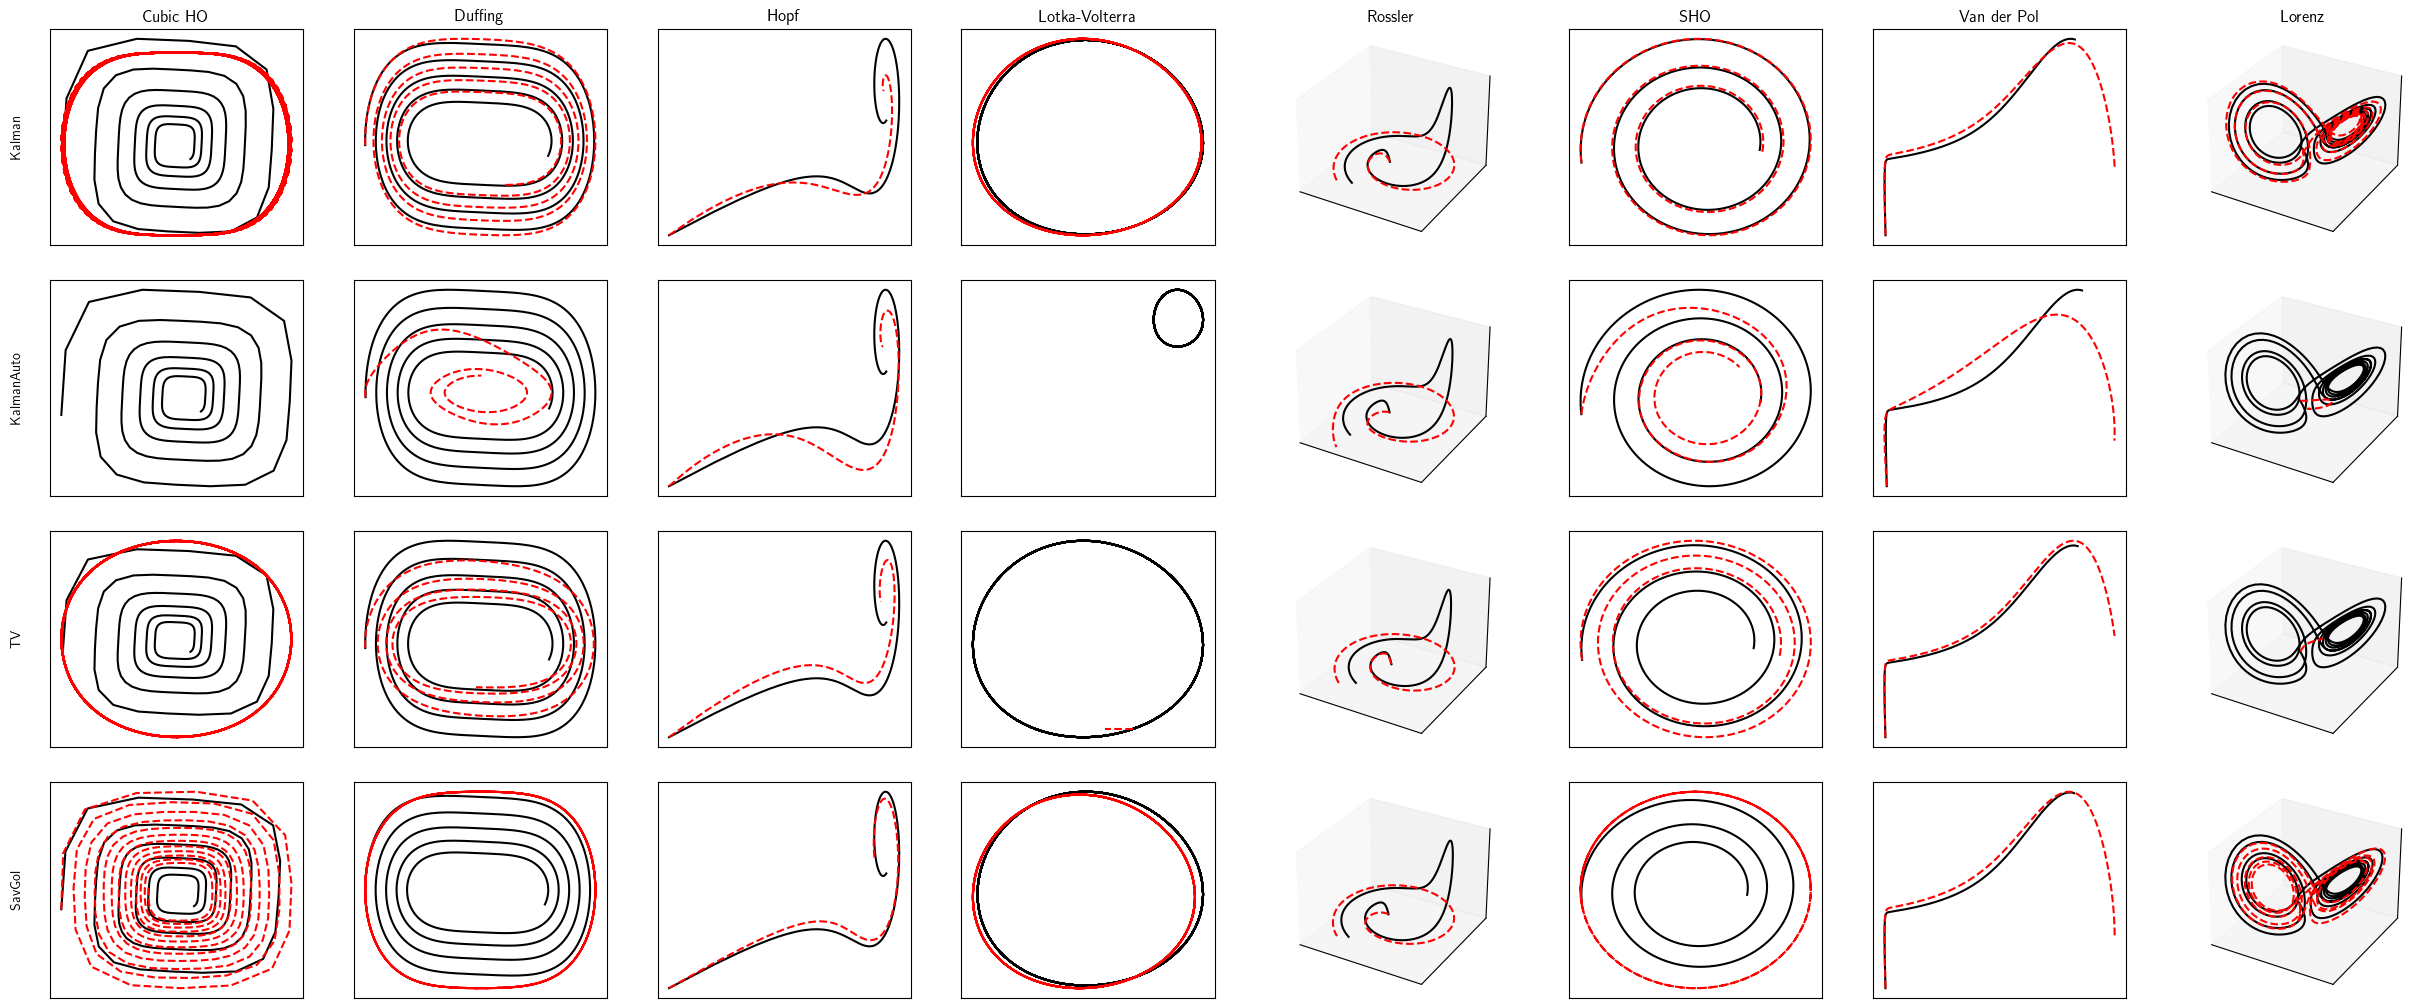
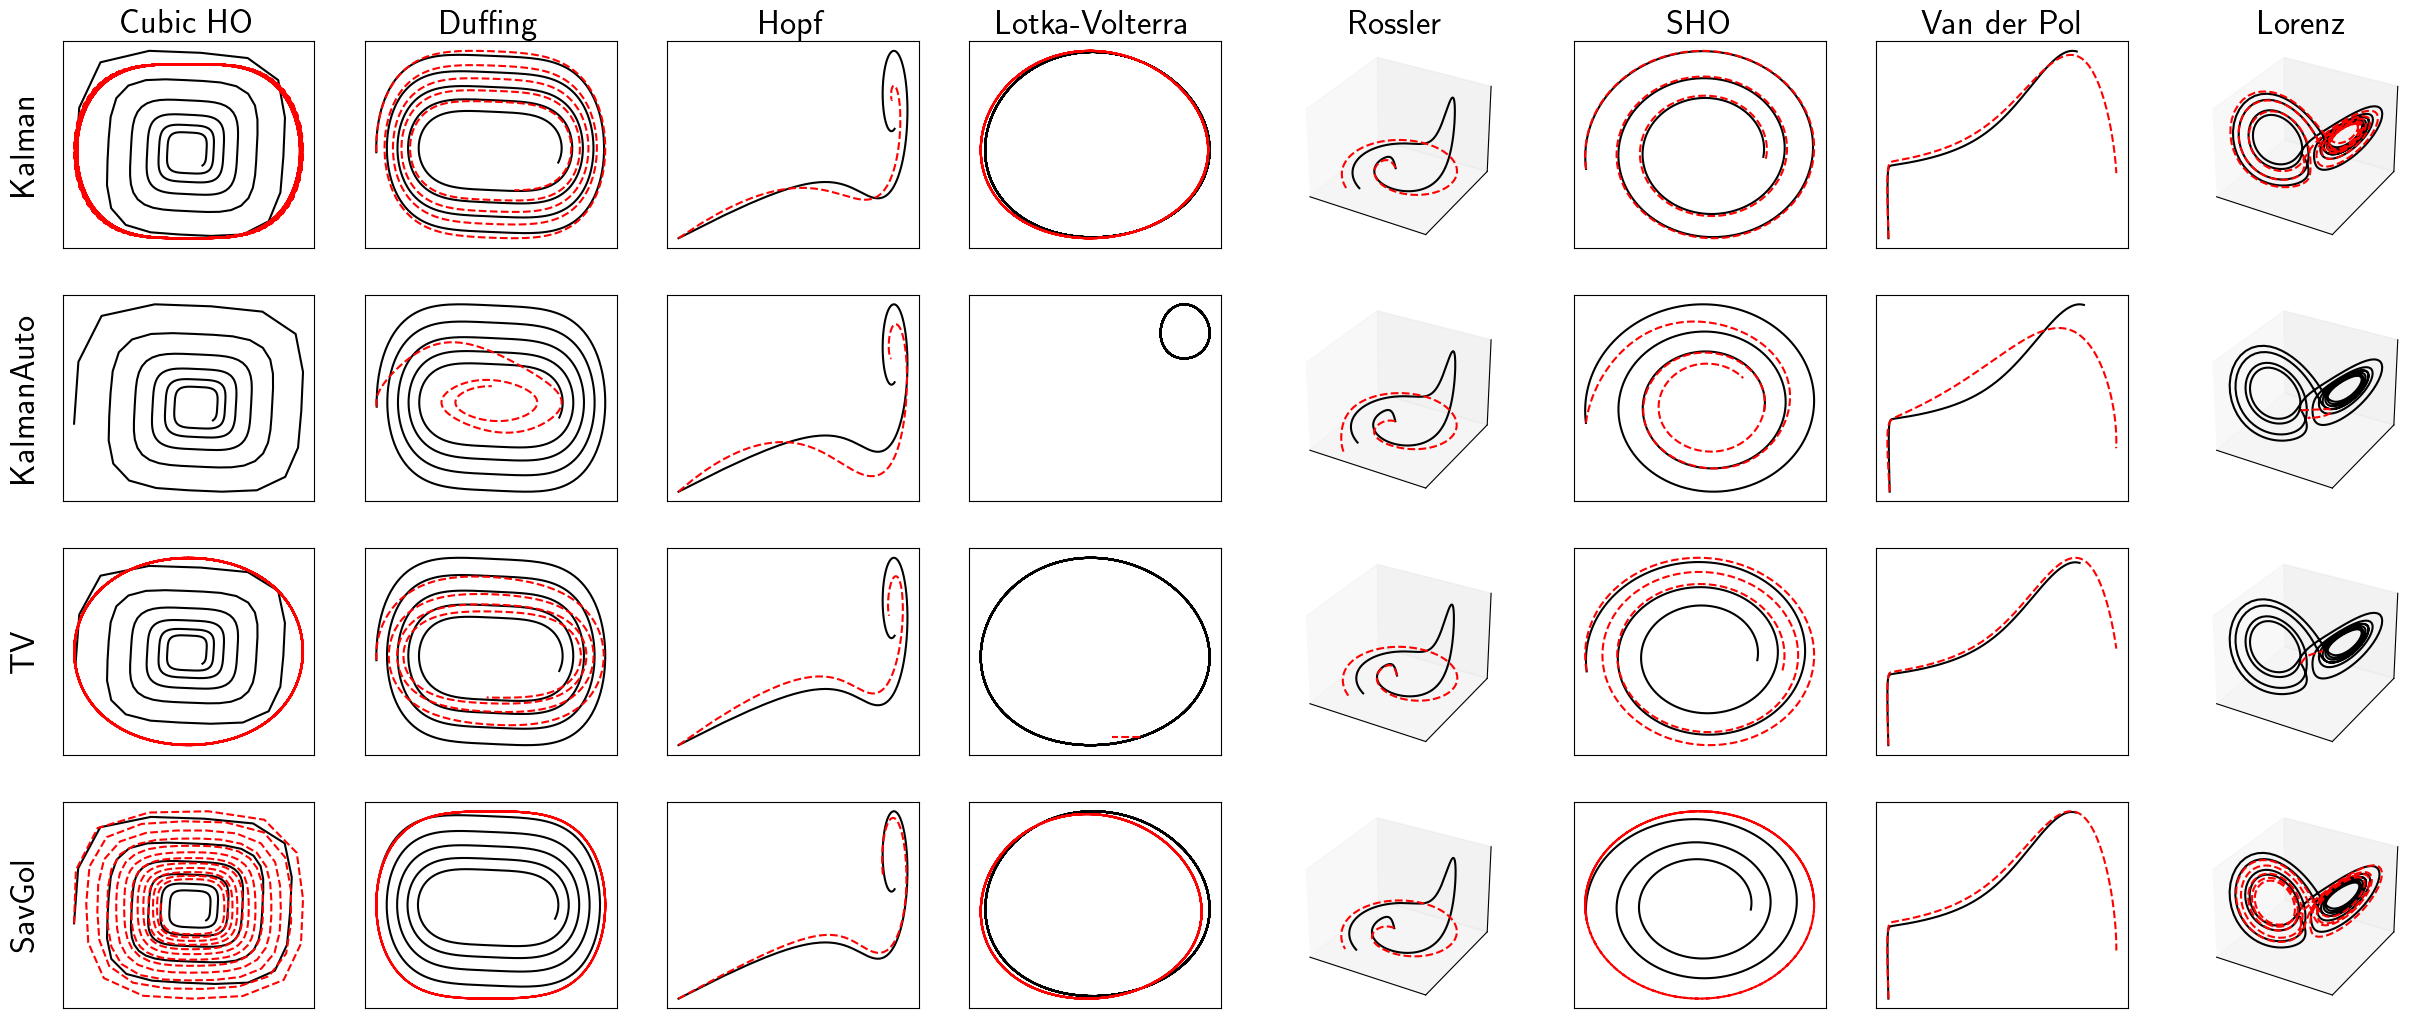
edit (images): rearrange and change fontsize in images

diff --git a/main.tex b/main.tex
@@ -1,5 +1,7 @@
 \documentclass{article}
-\usepackage[letterpaper]{geometry}
+\usepackage[
+    top=1in, bottom=1in, left=1in, right=1in
+]{geometry}
 \usepackage[utf8]{inputenc}
 \usepackage{amsmath}
 \usepackage{amssymb}
@@ -47,13 +49,6 @@ On the other hand, Kalman theory has a half-century history of assimilating nois
 Its noise properties have been well studied.
 The paper integrates mature, well-established Kalman theory with emerging SINDy technology and generalized cross validation parameter selection.
 It finds that the combination is competitive with other combinations of data smoothing and system identification, and has an advantage in preservation of problem structure and ease of parameter selection.
-
-% \begin{itemize}
-%     \item Model discovery in data science - bring power of kalman here (what about other methods: autoencoders, DMD, Koopman) (what for?) (All of physics specifying relationships among derivatives) (your job is to discovery derivatives, because derivatives give you the models. There's a lot more we can say, study, and understand about a system when we can identify relationships between derivatives.
-%     \item SINDy - overview (2016 + )
-%     \item Kalman overview (citing textbooks: Kalman is (a) Euler update, (b) Filter update with normal random variable, (c) MLE of Brownian motion, (d) best linear fit) engineering practice and design have used it for control, data assimilation is used as a workhorse tool in the real world e.g. weather.  Plus Auto KS  Include words from https://www.sciencedirect.com/science/article/pii/S0003267000838398 about comparison between SG and Kalman.  Include words from https://en.wikipedia.org/wiki/Local\_regression about comparison between SG and LOES.
-%     \item What we do: marriage of kalman + SINDy (figure, hinted at in P1)
-% \end{itemize}
 
 Model discovery methods are emerging as a critical component in data-driven engineering design and scientific discovery.
 Enabled by advancements in computational power, optimization schemes, and machine learning algorithms, such techniques are revolutionizing what can be achieved from sensor measurements deployed in a given system.
@@ -186,22 +181,19 @@ In a desire to make the experiments not just reproducible, but also customizable
 
 Within \gray{pysindy}, we redefined ensembling in a more flexible way to apply to a greater variety of underlying optimizers, such as the MIOSR one used in these experiments.  The standardization of interfaces allows us to compose SINDy experiments in the \cite{pysindy-experiments-2024} package.  It allows a standard API to specify data generation, model building, and evaluation.  Beyond the experiments in this paper, we've added PDE experiments as well.  As a consequence, we were not able to compare with the integral-based methods of \cite{messenger2021bweak}, whose equivalent in \gray{pysindy} does not allow simulation, or \cite{Hirsh2022}, which has not been built into \gray{pysindy}.
 
-Finally, in order to make it easier to collaborate and reproduce experiments, we expanded the \gray{mitosis} package developed in \cite{Stevens-Haas2022}.  This allows specifying experiment parameters and groups in a declarative manner, which leads to more readable diffs.  It also pins reproducibility information for any experiment run.  The command line syntax for the experiments in this paper, as well as the full environment git hashes and package versions, are in Appendix B
-
-\subsection{Results}
-
-We find that SINDy with Kalman smoothing recovers the problem structure in application much better than competing methods.  SINDy with Kalman hyperparameter optimization tends outperform the Savitsky-Golay and Total Variation gridsearched optima, itself outperformed only slightly by the Kalman gridsearched optima.  While hyperparameter optimization imposes a substantial runtime cost, it does not require access to the true data, making those results all the more inspiring for field use cases.  Simulations of discovered models across all ODEs and methods are shown in figure \ref{fig:test}
+Finally, in order to make it easier to collaborate and reproduce experiments, we expanded the \gray{mitosis} package developed in \cite{Stevens-Haas2022}.  This allows specifying experiment parameters and groups in a declarative manner, which leads to more readable diffs.  It also pins reproducibility information for any experiment run.  Further reproducibility info is in Appendix B
 \begin{figure}[h]
     \label{fig:test}
     \includegraphics[width=\textwidth]{images/summary_test}
     \caption{The simulation of discovered models compared to test data.  Kalman only performs worse on Cubic HO and Lotka Volterra.  It represents the essential behavior of other ODEs better than TV and Savitsky-Golay.}
 \end{figure}
 
+\subsection{Results}
+
+We find that SINDy with Kalman smoothing recovers the problem structure in application much better than competing methods.  SINDy with Kalman hyperparameter optimization tends outperform the Savitsky-Golay and Total Variation gridsearched optima, itself outperformed only slightly by the Kalman gridsearched optima.  While hyperparameter optimization imposes a substantial runtime cost, it does not require access to the true data, making those results all the more inspiring for field use cases.  Simulations of discovered models across all ODEs and methods are shown in figure \ref{fig:test}
+
 Surprisingly, while models derived from Kalman-smoothed data outperform other methods in simulation, the Kalman-smoothed training data itself does not seem as accurate as data smoothed by L-1 Total Variation or Savitsky-Golay.
 
-\begin{figure}
-    \includegraphics[width=\textwidth]{images/summary_train}
-\end{figure}
 \begin{figure}
     \label{fig:train}
     \includegraphics[width=\textwidth]{images/summary_train}
@@ -212,14 +204,16 @@ Even more surprisingly, despite performing well in simulation, SINDy with Kalman
 
 \begin{figure}
     \label{fig:time}
-    \includegraphics[width=\textwidth]{images/summary_f1_time.png}
-    \includegraphics[width=\textwidth]{images/summary_mae_time.png}
+    \centering
+    \includegraphics[width=.65\textwidth]{images/summary_f1_time.png}\\
+    \includegraphics[width=.65\textwidth]{images/summary_mae_time.png}
     \caption{How well different smoothing methods in SINDy recover the ODE coefficients as data duration increases}
 \end{figure}
 \begin{figure}
     \label{fig:noise}
-    \includegraphics[width=\textwidth]{images/summary_f1_noise.png}
-    \includegraphics[width=\textwidth]{images/summary_mae_noise.png}
+    \centering
+    \includegraphics[width=.65\textwidth]{images/summary_f1_noise.png}\\
+    \includegraphics[width=.65\textwidth]{images/summary_mae_noise.png}
     \caption{How well different smoothing methods in SINDy recover the ODE coefficients as noise increases}
 \end{figure}
 

diff --git a/images/gen_image/composite_plots.py b/images/gen_image/composite_plots.py
@@ -18,7 +18,7 @@ plots.plot_summary_metric(
     "coeff_mae",
     "sim_params.t_end",
     *exp_hexes.items(),
-    shape=(2, 4),
+    shape=(3, 3),
     title=False,
     metric_fname=r"$\xi$ MAE",
     grid_axis_fname="data duration",
@@ -29,7 +29,7 @@ plots.plot_summary_metric(
     "coeff_f1",
     "sim_params.t_end",
     *exp_hexes.items(),
-    shape=(2, 4),
+    shape=(3, 3),
     title=False,
     metric_fname=r"$\xi$ F1 score",
     grid_axis_fname="data duration",
@@ -40,7 +40,7 @@ plots.plot_summary_metric(
     "coeff_mae",
     "sim_params.noise_rel",
     *exp_hexes.items(),
-    shape=(2, 4),
+    shape=(3, 3),
     title=False,
     metric_fname=r"$\xi$ MAE",
     grid_axis_fname="relative noise",
@@ -51,7 +51,7 @@ plots.plot_summary_metric(
     "coeff_f1",
     "sim_params.noise_rel",
     *exp_hexes.items(),
-    shape=(2, 4),
+    shape=(3, 3),
     title=False,
     metric_fname=r"$\xi$ F1 score",
     grid_axis_fname="relative noise",

diff --git a/images/gen_image/ksindy_figs/plotting.py b/images/gen_image/ksindy_figs/plotting.py
@@ -561,10 +561,9 @@ def plot_summary_test_train(
 
     def label_row(row_name: str, fig: Figure, grid: GridSpec, n_row: int) -> None:
         empty_ax = fig.add_subplot(grid[n_row + 1, 0])
+        fontdict = {"fontsize": 25, "va": "center", "rotation": 90}
         empty_ax.axis("off")
-        empty_ax.text(
-            0, 0.5, row_name, va="center", transform=empty_ax.transAxes, rotation=90
-        )
+        empty_ax.text(0, 0.5, row_name, transform=empty_ax.transAxes, **fontdict)
 
     if row_cat == "exps":
         for n_row, (row_name, row_key) in enumerate(exps):
@@ -592,6 +591,6 @@ def plot_summary_test_train(
 
     first_row = fig.get_axes()[:n_cols]
     for ax, col_name in zip(first_row, col_names):
-        ax.set_title(col_name)
+        ax.set_title(col_name, fontsize=25)
     grid.tight_layout(fig)
     return fig
